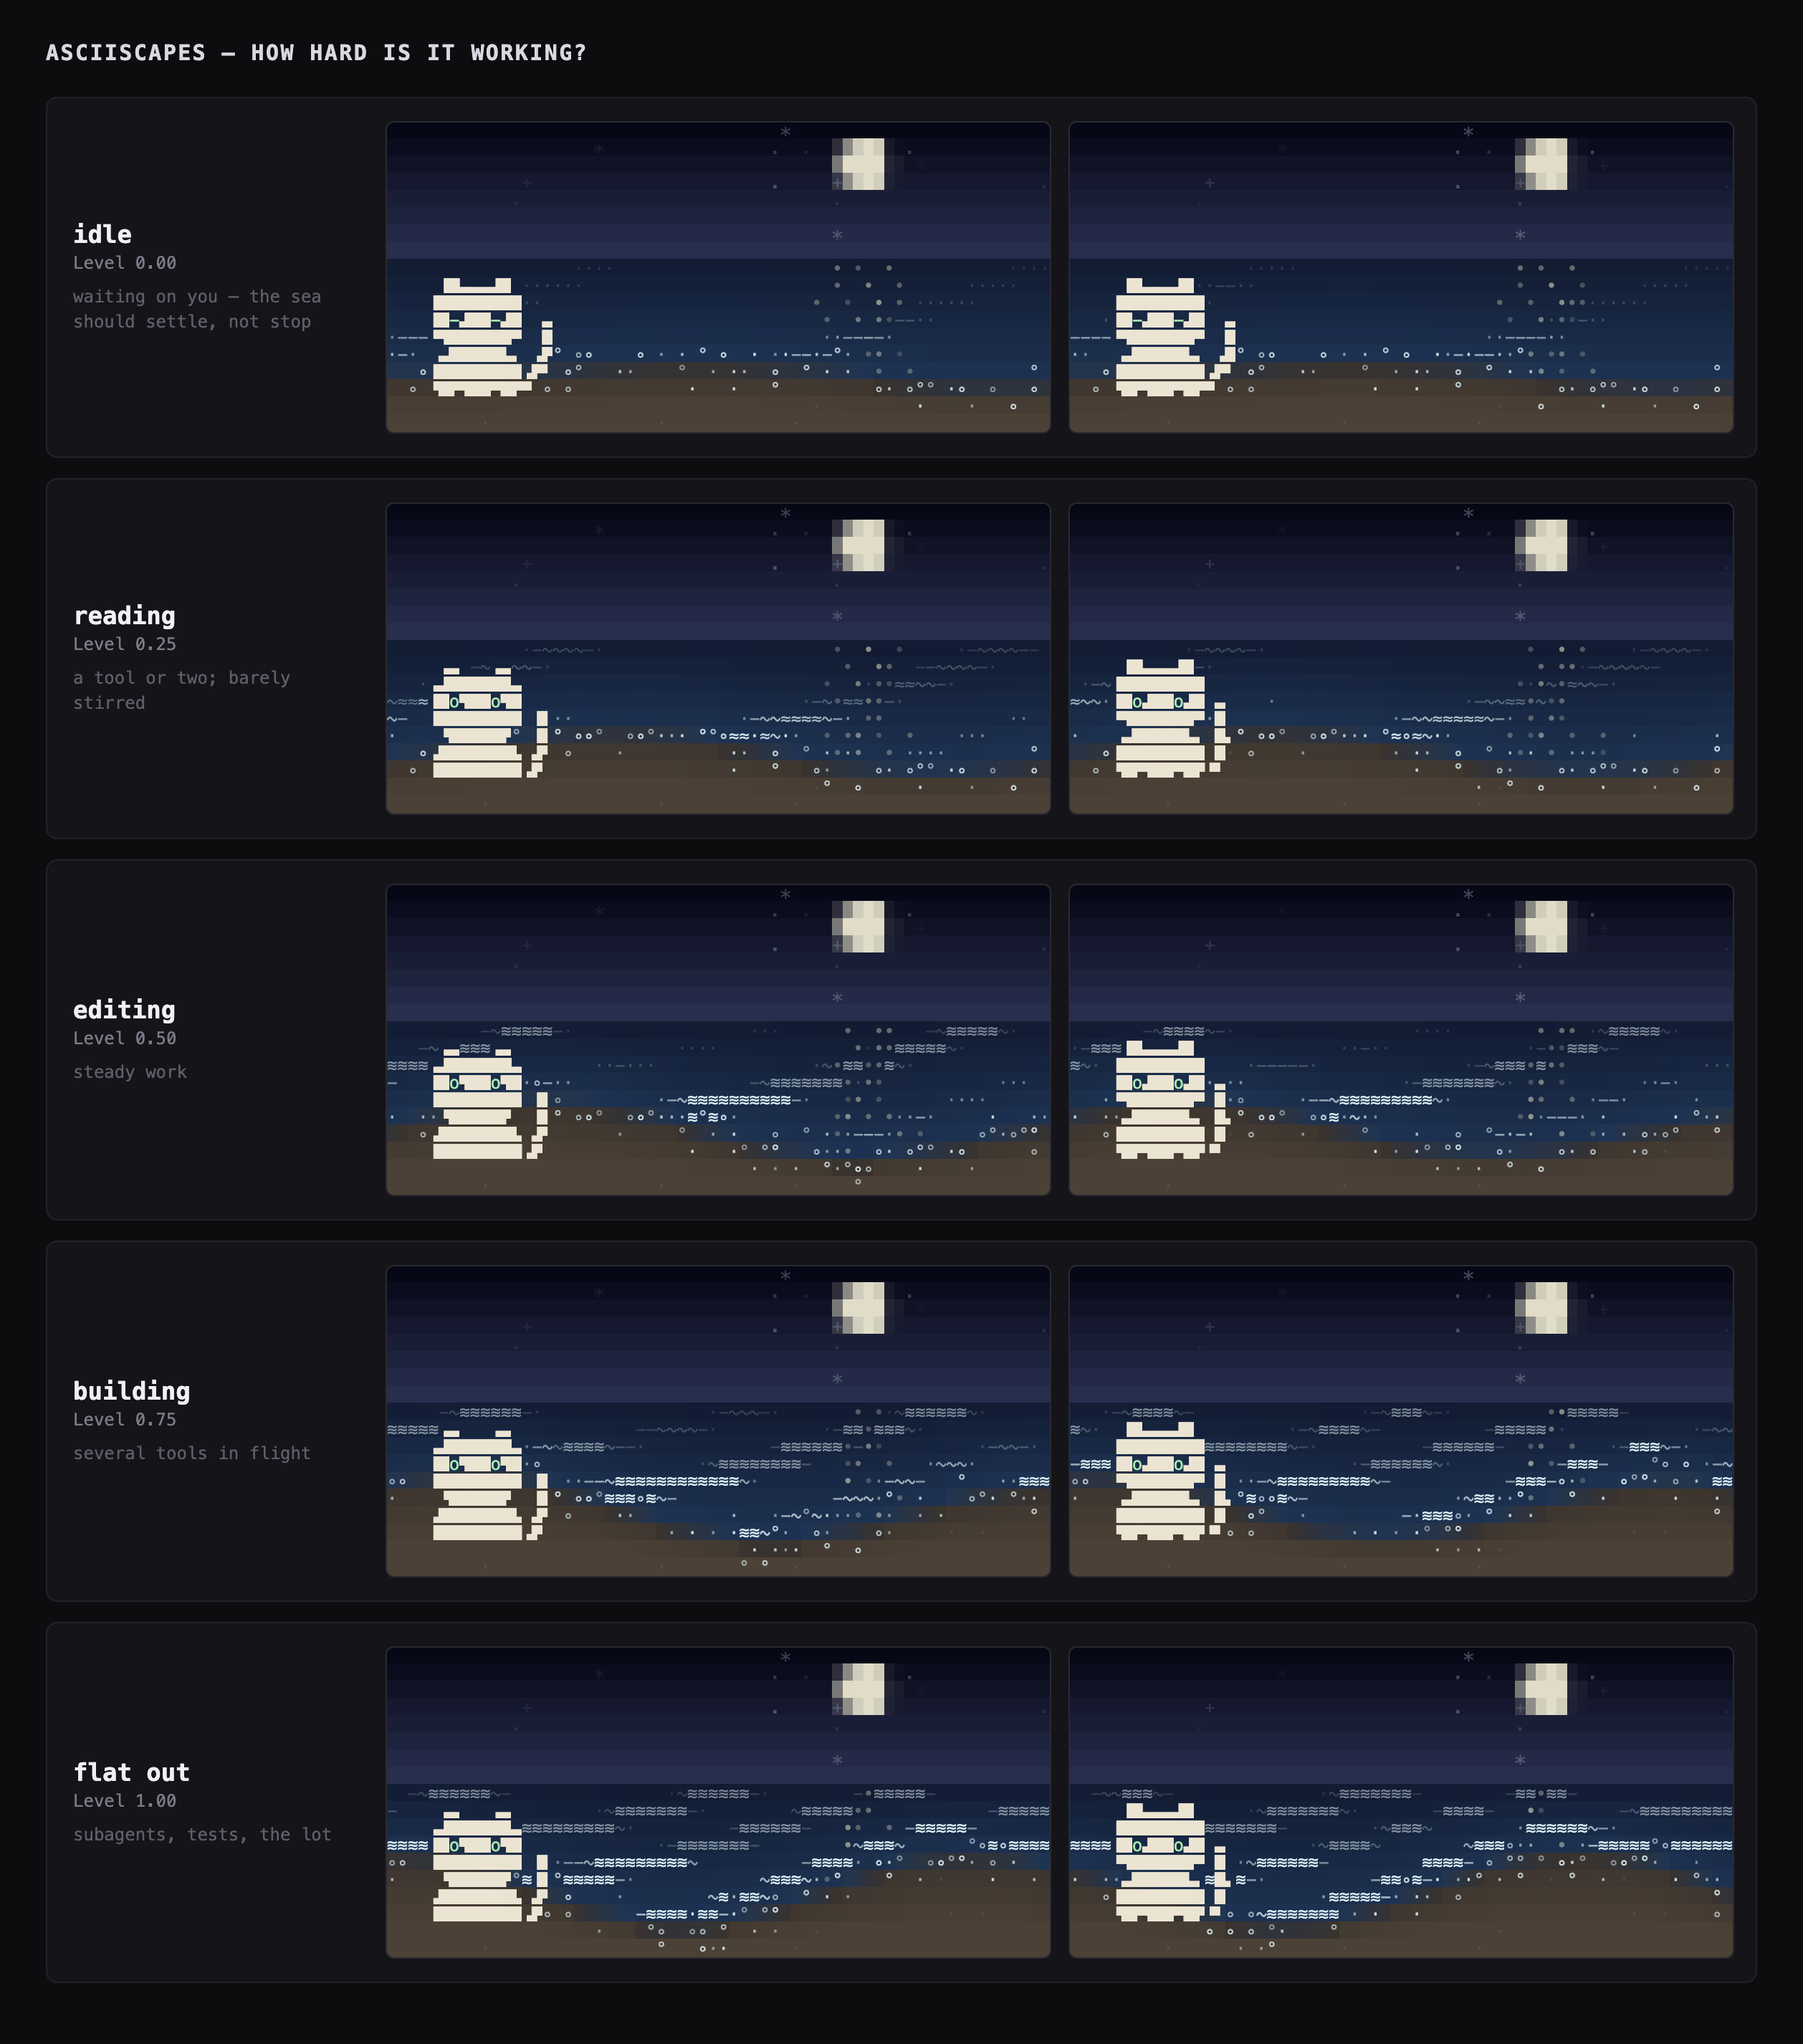
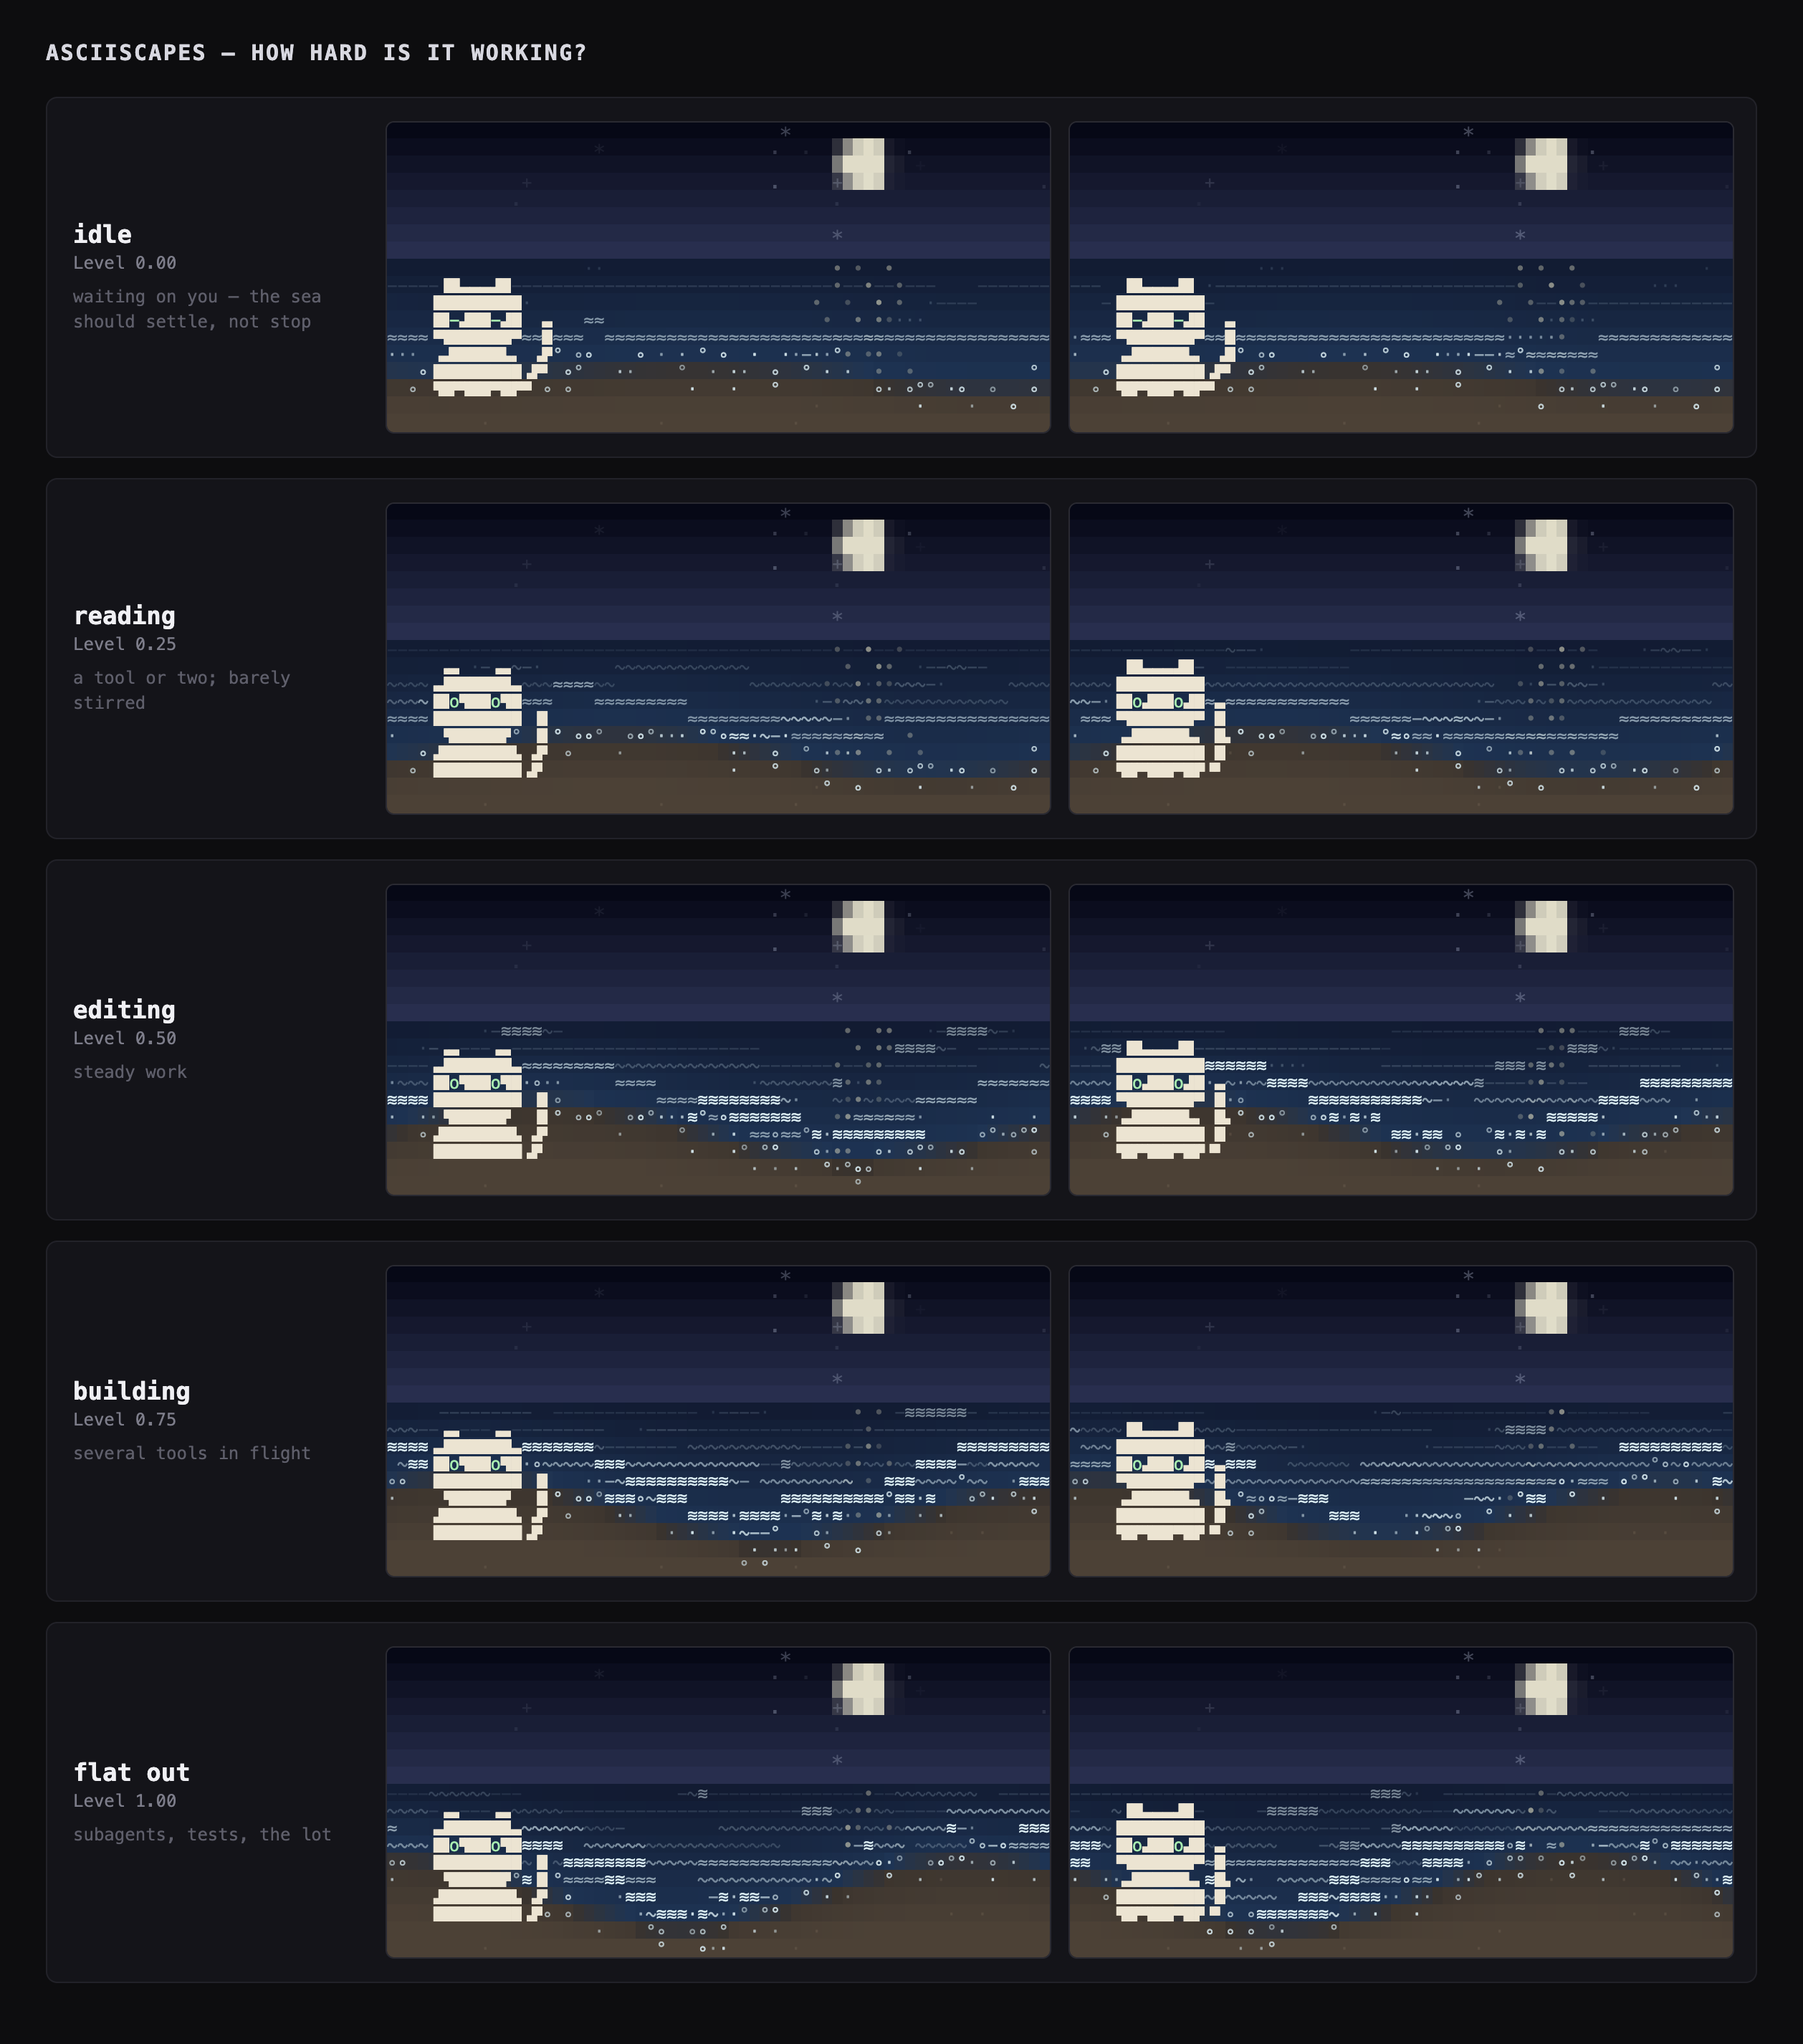
Travelling swells, and the companion carries broken
Lucas: if something is broken the COMPANION should say so, not the
weather. That fixes a real flaw in the channel map -- weather was
carrying two masters, busy and broken, which is the exact collision the
one-variable-one-channel rule exists to prevent. Weather now means busy
only.

Worried is a distinct pose: ears folded back, shoulders hunched, tail
tucked flat, amber eyes against the moonlit green of every other state.
Distress reads as stillness where the other states read as motion. It
persists until the breakage clears, unlike the states that track what
the agent is doing right now.

Swells replace a thickening noise field with discrete crests that travel
from horizon to shore and steepen as they arrive. Activity drives how
many are in flight and how tall they get -- both countable at a glance,
unlike speed. A field that thickens reads as static; lines that move as
objects read as an ocean.

Claude-Session: https://claude.ai/code/session_019PBtf39rtmaj5ru2XNdm5i

diff --git a/internal/companion/cat.go b/internal/companion/cat.go
@@ -15,6 +15,11 @@ const (
 	Resting State = iota
 	Working
 	NeedsYou
+	// Worried persists while something is broken, unlike the other states,
+	// which track what the agent is doing right now. It is the companion's
+	// job rather than the weather's: a storm cannot say whether the sea is
+	// rough because the agent is busy or because the tests are red.
+	Worried
 )
 
 func (s State) String() string {
@@ -23,6 +28,8 @@ func (s State) String() string {
 		return "working"
 	case NeedsYou:
 		return "needs you"
+	case Worried:
+		return "something is broken"
 	}
 	return "resting"
 }
@@ -31,16 +38,22 @@ var (
 	furCol   = term.RGB{R: 236, G: 228, B: 210}
 	eyeCol   = term.RGB{R: 168, G: 236, B: 176} // moonlit shine, not a highlight
 	eyeAlert = term.RGB{R: 232, G: 252, B: 226}
+	// Amber, against the moonlit green of every other state. Colour does the
+	// work that a five-cell face cannot.
+	eyeWorried = term.RGB{R: 244, G: 176, B: 96}
 )
 
 // Cat is the companion. The body is a bitmap; the tail is a curve evaluated per
 // frame, which is why wagging costs no extra authoring.
 type Cat struct {
-	body *Bitmap
-	walk *Bitmap
+	body    *Bitmap
+	walk    *Bitmap
+	worried *Bitmap
 }
 
-func NewCat() *Cat { return &Cat{body: ParseBitmap(CatBody)} }
+func NewCat() *Cat {
+	return &Cat{body: ParseBitmap(CatBody), worried: ParseBitmap(CatWorried)}
+}
 
 // Size is the character footprint, not the pixel size.
 func (c *Cat) Size() (w, h int) { return c.body.W / 2, c.body.H / 4 }
@@ -48,17 +61,25 @@ func (c *Cat) Size() (w, h int) { return c.body.W / 2, c.body.H / 4 }
 // Draw composes this frame and plots it. Everything that moves is computed
 // here; nothing is stored between frames.
 func (c *Cat) Draw(l *canvas.Layer, x, y int, t float64, st State) {
-	f := c.body.Blank()
+	src := c.body
+	if st == Worried {
+		src = c.worried
+	}
+	f := src.Blank()
 
 	// Breathing. One quadrant subpixel is two source rows, so shifting by two
 	// moves the whole body by exactly half a character cell -- the smallest
 	// vertical step this medium has, and slow enough to read as breath.
-	period, wag := 3.6, math.Sin(t*0.6)*0.3
+	period, wag, tailLen := 3.6, math.Sin(t*0.6)*0.3, 1.0
 	switch st {
 	case Working:
 		period, wag = 2.2, math.Sin(t*2.4)
 	case NeedsYou:
 		period, wag = 1.6, math.Sin(t*5.0)
+	case Worried:
+		// Shallow, quick breathing and a tail tucked flat: distress reads as
+		// stillness where the other states read as motion.
+		period, wag, tailLen = 1.9, 0, 0.35
 	}
 	lift := 0
 	if math.Sin(2*math.Pi*t/period) > 0 {
@@ -66,12 +87,12 @@ func (c *Cat) Draw(l *canvas.Layer, x, y int, t float64, st State) {
 	}
 	for sy := 0; sy < f.H; sy++ {
 		for sx := 0; sx < f.W; sx++ {
-			if c.body.at(sx, sy-lift) {
+			if src.at(sx, sy-lift) {
 				f.Set(sx, sy)
 			}
 		}
 	}
-	c.tail(f, wag, lift)
+	c.tail(f, wag, lift, tailLen)
 
 	(&Sprite{Rows: f.ToQuadrant(), Body: furCol}).Draw(l, x, y)
 	c.eyes(l, x, y, t, st)
@@ -79,8 +100,9 @@ func (c *Cat) Draw(l *canvas.Layer, x, y int, t float64, st State) {
 
 // tail sweeps a curve up from the right hip. Two pixels thick so it survives
 // the halving that ToQuadrant does.
-func (c *Cat) tail(b *Bitmap, wag float64, lift int) {
-	for i := 0; i <= 13; i++ {
+func (c *Cat) tail(b *Bitmap, wag float64, lift int, length float64) {
+	n := int(13 * length)
+	for i := 0; i <= n; i++ {
 		f := float64(i) / 13
 		x := 17 + int(5*f+2.2*math.Sin(wag*1.6+f*2.6)+0.5)
 		y := 24 - int(13*f+0.5) + lift
@@ -100,8 +122,10 @@ func (c *Cat) eyes(l *canvas.Layer, x, y int, t float64, st State) {
 		glyph = '-' // dozing between turns
 	case NeedsYou:
 		glyph, col = 'O', eyeAlert
+	case Worried:
+		glyph, col = 'o', eyeWorried
 	}
-	if st != Resting && math.Mod(t, 5.3) < 0.16 {
+	if st != Resting && st != Worried && math.Mod(t, 5.3) < 0.16 {
 		glyph = '-' // blink
 	}
 	l.Plot(x+2, y+2, glyph, col, 1)

diff --git a/internal/scape/shore.go b/internal/scape/shore.go
@@ -213,7 +213,7 @@ func (s *Shore) sea(c *canvas.Canvas, hy int, edge []float64, tt float64, act Ac
 			// glance -- and a glance is the only budget this has -- so a busier
 			// sea has to mean MORE of the sea in motion, not the same marks
 			// moving faster.
-			thr := (1.15 - depth*0.55) - act.Level*0.62
+			thr := (1.30 - depth*0.50) - act.Level*0.45
 			if wv < thr {
 				continue
 			}
@@ -239,7 +239,60 @@ func (s *Shore) sea(c *canvas.Canvas, hy int, edge []float64, tt float64, act Ac
 			}
 		}
 	}
+	s.swells(c, hy, edge, tt, act)
 	s.glitter(c, hy, edge, tt)
+}
+
+// swells are the actual waves: discrete crests that travel from the horizon to
+// the shore, steepening as they arrive. Activity drives HOW MANY are in flight
+// and HOW TALL they get -- both countable at a glance, unlike wave speed.
+//
+// A field of noise that thickens reads as static. Lines that move as objects
+// read as an ocean, and you can count them.
+func (s *Shore) swells(c *canvas.Canvas, hy int, edge []float64, tt float64, act Activity) {
+	mid, near := c.Mid(), c.Near()
+	n := 2 + int(act.Level*5.4) // 2 at rest, 7 flat out
+
+	body := []rune{'-', '~', '≈'}
+	cap := '≋'
+	if s.ASCII {
+		body, cap = []rune{'-', '~', '~'}, '='
+	}
+
+	for i := 0; i < n; i++ {
+		// Each swell walks from horizon to shore and wraps; offsetting by
+		// i/n keeps them evenly spaced instead of bunching.
+		prog := math.Mod(tt*0.13+float64(i)/float64(n), 1)
+		ph := float64(i) * 2.4
+		// Crests steepen as they come in, and a busier sea sends bigger ones.
+		amp := (0.35 + act.Level*1.25) * (0.25 + prog)
+
+		for x := 0; x < c.W; x++ {
+			top := float64(hy) + 1
+			bot := edge[x] - 0.6
+			if bot <= top {
+				continue
+			}
+			y := top + prog*(bot-top) + amp*math.Sin(float64(x)*0.15+ph)
+			yy := int(y + 0.5)
+			if float64(yy) < top || float64(yy) > bot {
+				continue
+			}
+			g := body[int(prog*float64(len(body)))%len(body)]
+			a := 0.35 + prog*0.6
+			col := term.Lerp(s.pal.SeaNear, s.pal.Foam, 0.3+prog*0.55)
+			// The nearest crests break.
+			if prog > 0.78 && act.Level > 0.4 {
+				g, col = cap, s.pal.Foam
+				a = math.Min(1, a+0.25)
+			}
+			if prog > 0.5 {
+				near.Plot(x, yy, g, col, a)
+			} else {
+				mid.Plot(x, yy, g, col, a)
+			}
+		}
+	}
 }
 
 // glitter is the moon's reflection, widening as it comes toward shore.

diff --git a/internal/companion/bitmaps.go b/internal/companion/bitmaps.go
@@ -68,7 +68,8 @@ var CatBody = []string{
 }
 
 // Bitmaps is what the uniform-width test walks.
-var Bitmaps = map[string][]string{"cat": PixelCat, "catBody": CatBody, "catWalk": CatWalk}
+var Bitmaps = map[string][]string{"cat": PixelCat, "catBody": CatBody,
+	"catWalk": CatWalk, "catWorried": CatWorried}
 
 // CatWalk is the side view: torso and head only, facing right. Legs and tail
 // are drawn per frame, so the gait needs no art. Mirror the composed frame
@@ -102,4 +103,38 @@ var CatWalk = []string{
 	"................................",
 	"................................",
 	"................................",
+}
+
+// CatWorried is the same cat with its ears folded back and its shoulders
+// hunched: no tall ears, a shallower waist, the head pulled down. This is the
+// state that says something is wrong and has not been fixed yet.
+var CatWorried = []string{
+	"........................",
+	"........................",
+	".##.............##......",
+	".####.........####......",
+	"..###############.......",
+	".#################......",
+	".#################......",
+	".#################......",
+	".###...#####...###......",
+	".###...#####...###......",
+	".#################......",
+	".#######...#######......",
+	".#################......",
+	"..###############.......",
+	"...#############........",
+	"....###########.........",
+	"...#############........",
+	"..###############.......",
+	"..###############.......",
+	".#################......",
+	".#################......",
+	".#################......",
+	".#################......",
+	".#################......",
+	".#################......",
+	".#################......",
+	"..###..#####..###.......",
+	"..###..#####..###.......",
 }

diff --git a/strip.go b/strip.go
@@ -51,11 +51,31 @@ func stripPage(seed int64, frames int, fps float64, mode string) string {
 				st, act = companion.Resting, scape.Activity{}
 			case "needsyou":
 				st = companion.NeedsYou
+			case "worried":
+				st, act = companion.Worried, scape.Activity{Working: true, Level: 0.35}
+			case "tour":
+				// One loop through every state, so a single GIF carries the
+				// whole vocabulary.
+				switch (i * 4) / frames {
+				case 0:
+					st, act = companion.Working, scape.Activity{Working: true, Level: 0.9}
+				case 1:
+					st, act = companion.Worried, scape.Activity{Working: true, Level: 0.3}
+				case 2:
+					st, act = companion.Resting, scape.Activity{}
+				default:
+					st = companion.NeedsYou
+				}
 			}
 			scape.NewShore(seed, false).Update(c, t, act)
 			cw, chh := cat.Size()
 			top := c.H - 2 - chh
 			cat.Draw(c.Near(), 6, top, t, st)
+			if st == companion.Worried {
+				rows := companion.Bubble("tests failing")
+				(&companion.Sprite{Rows: rows, Body: term.RGB{R: 240, G: 200, B: 150}}).
+					Draw(c.Near(), 6+cw-2, top-len(rows))
+			}
 			if st == companion.NeedsYou {
 				rows := companion.Bubble("tests passed")
 				(&companion.Sprite{Rows: rows, Body: term.RGB{R: 226, G: 230, B: 240}}).
